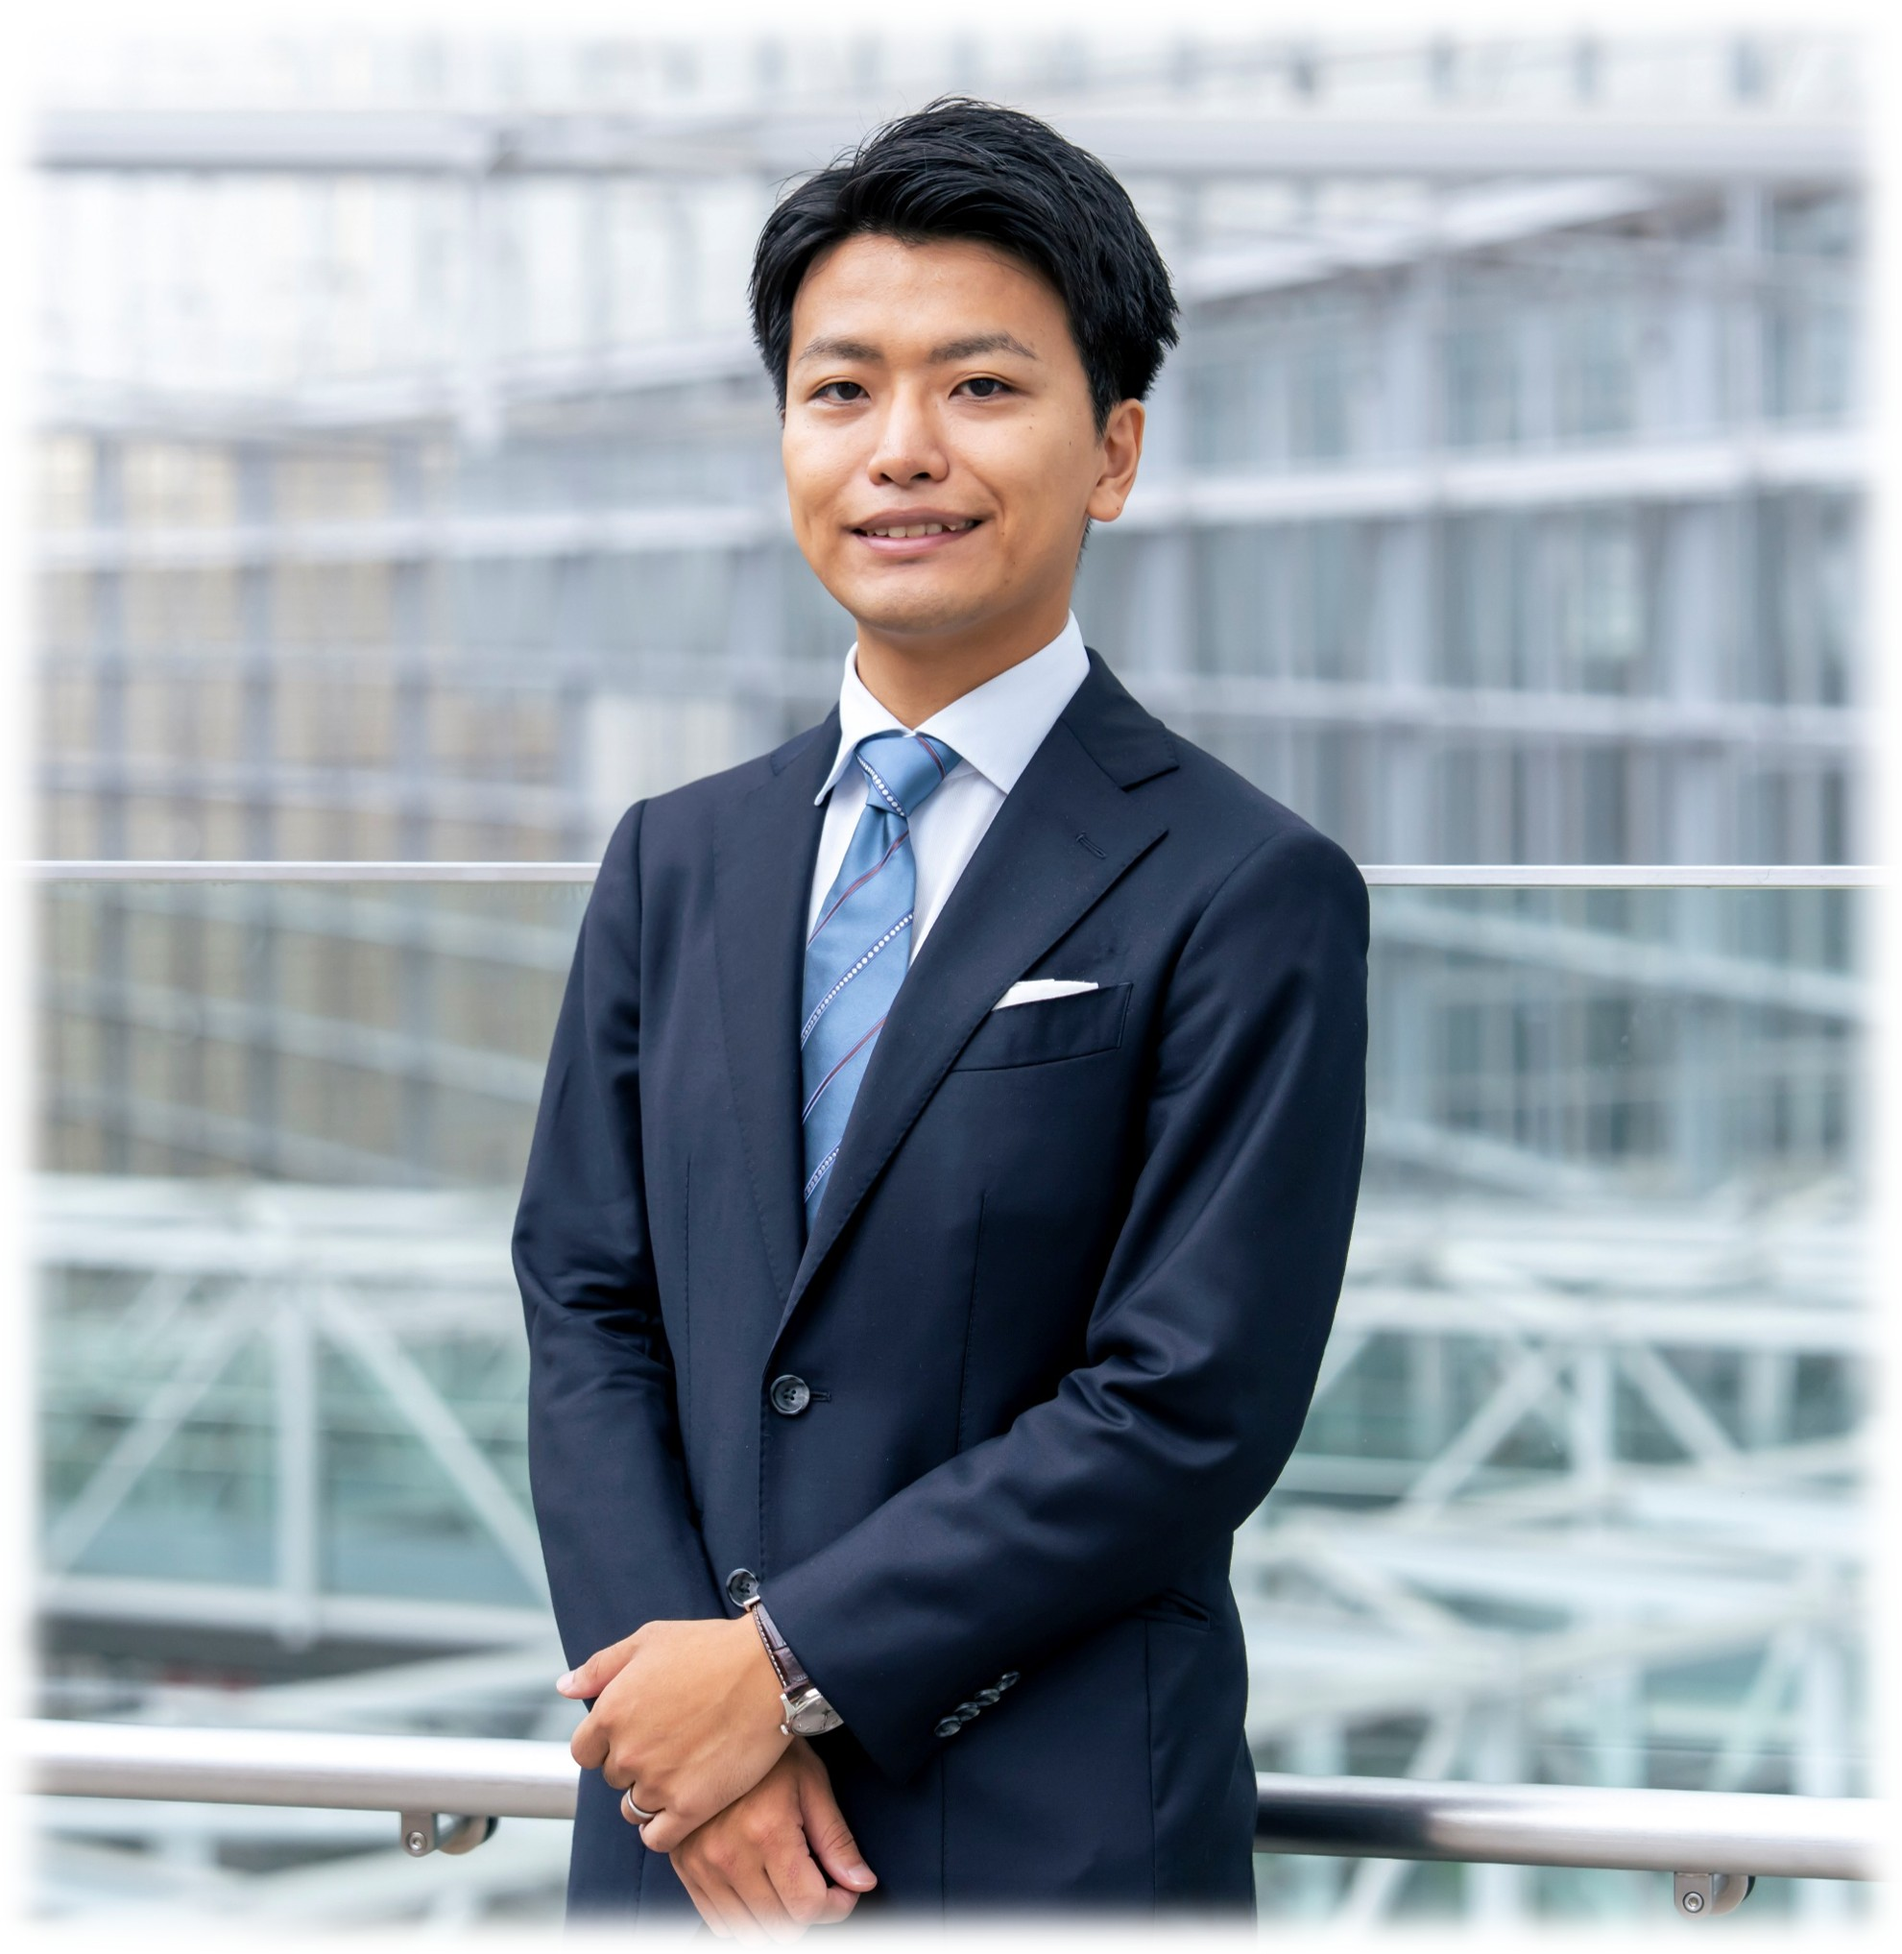
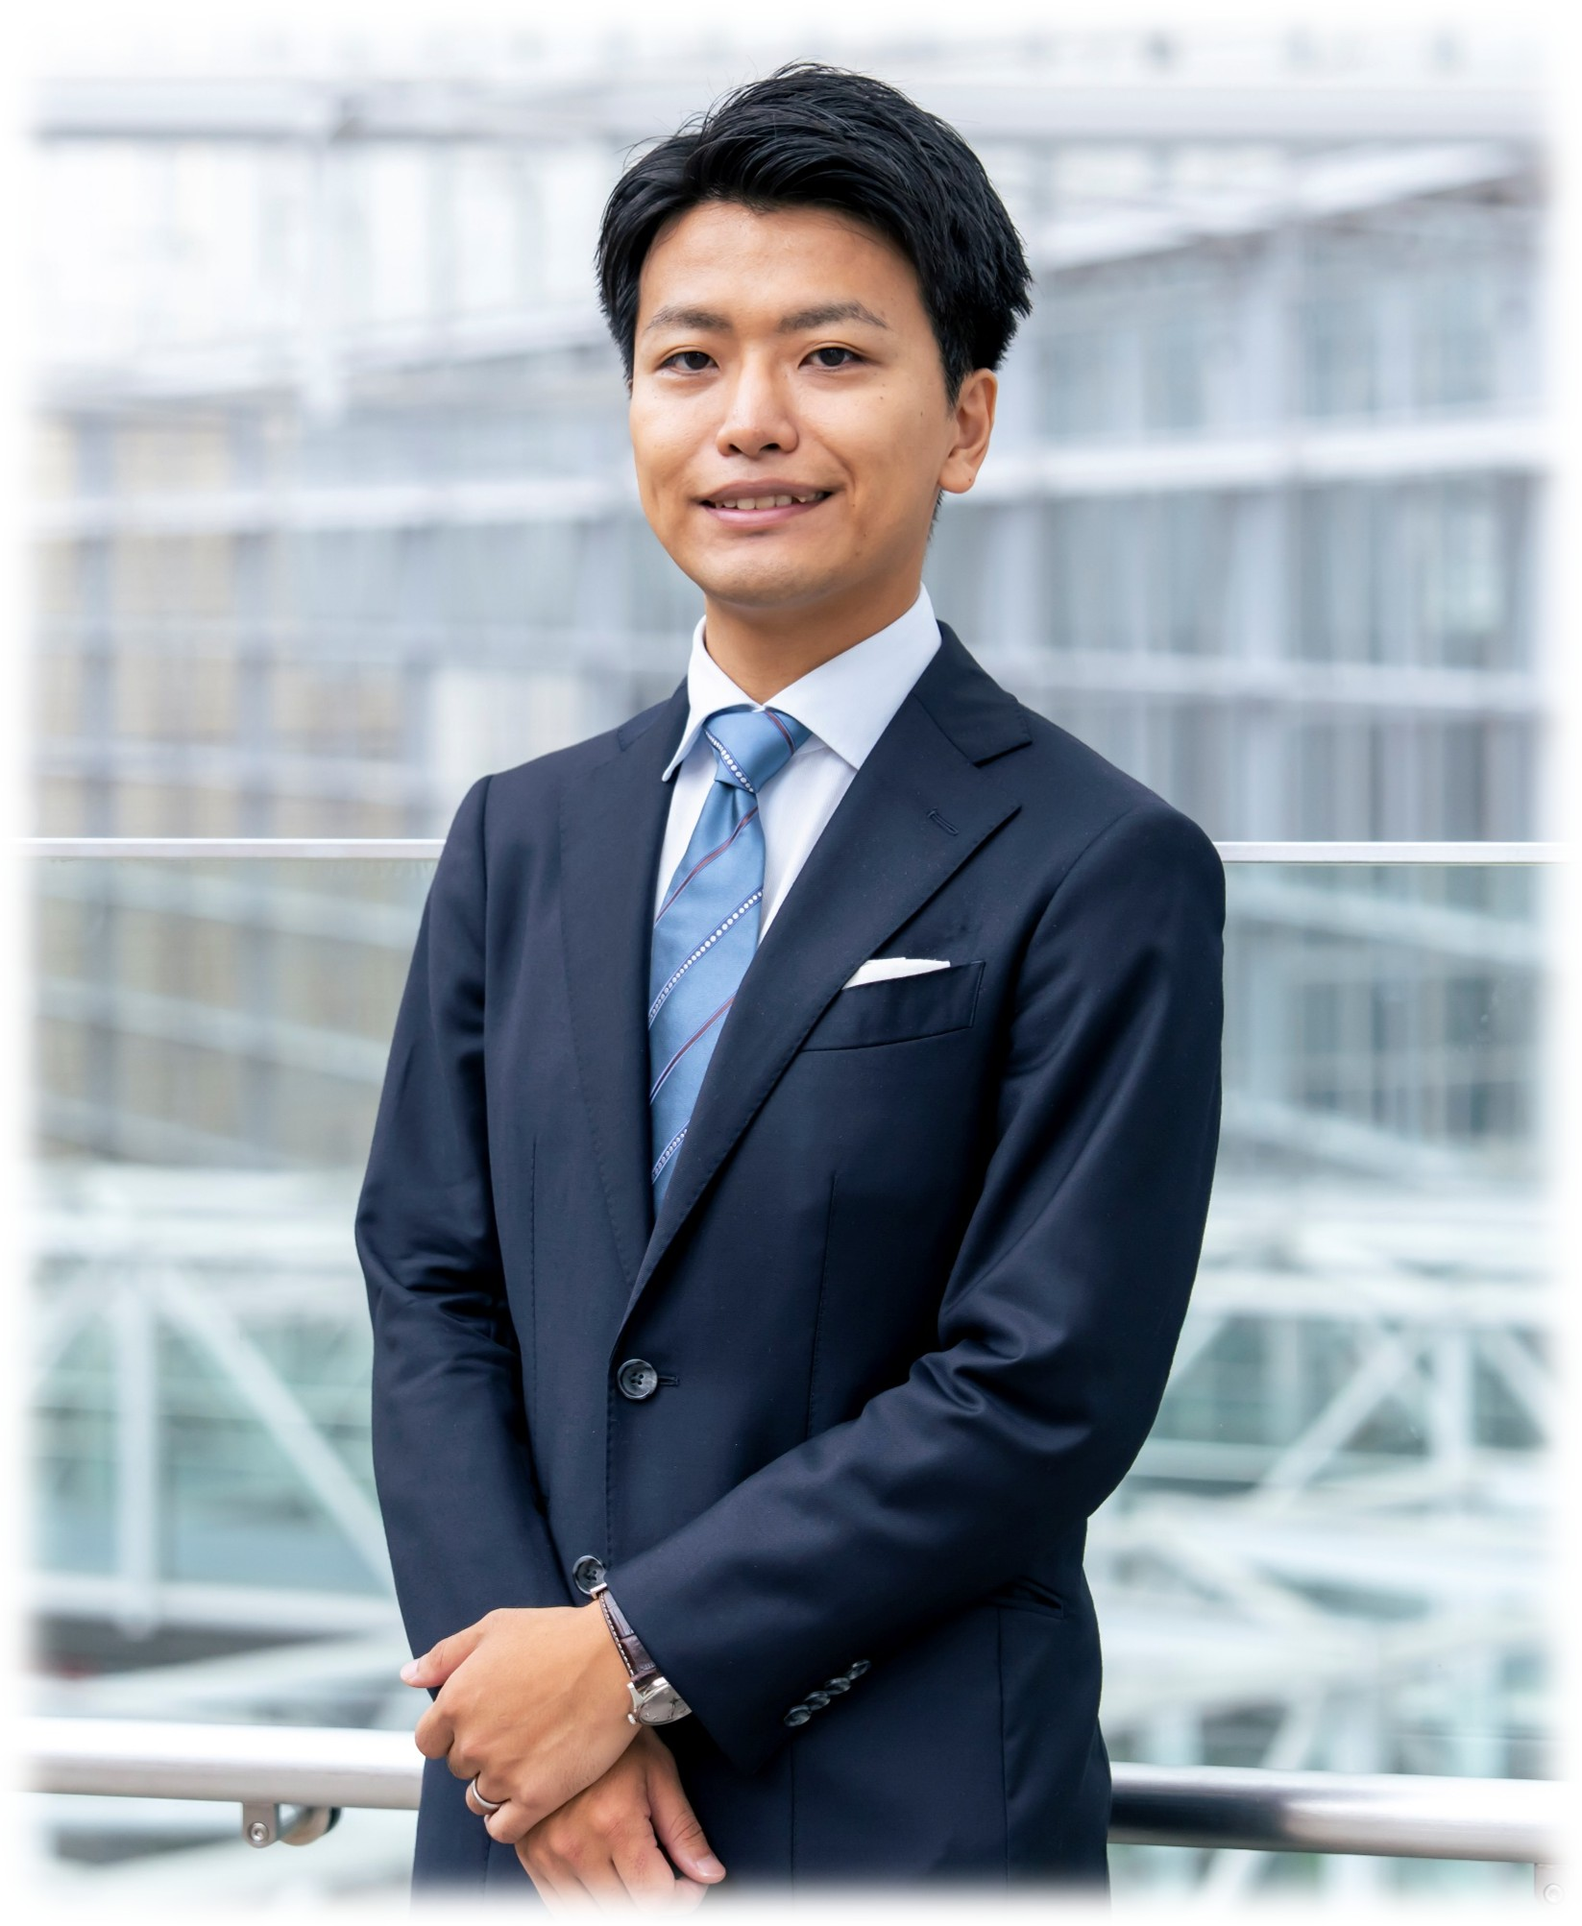
Update site

diff --git a/company.html b/company.html
@@ -95,30 +95,29 @@
 			<!-- Greeting -->
 				<section id="greeting" class="container reveal-on-scroll" style="padding: 3em 0;">
 					<h2 style="font-size: 1.6em; font-weight: 900; color: #0B2F6B; border-bottom: solid 3px #0B2F6B; padding-bottom: 0.5em; margin: 0 0 2em 0;">代表挨拶</h2>
-					<div style="display: flex; flex-wrap: wrap; gap: 3em; align-items: flex-start;">
-						<div style="flex: 0 1 340px; text-align: center;">
-							<img src="images/Picture2.jpg" alt="代表 吉川和明" style="width: 100%; max-width: 340px; display: block; margin: 0 auto;">
-							<p class="text-center" style="color: #333f4d; margin: 1em 0 0 0; font-size: 0.85em; text-align: center; line-height: 1.7;">
-								和魂かけはしパートナーズ合同会社<br>
-							代表社員　吉川　和明<a href="https://www.linkedin.com/in/kyoshikawa" target="_blank" rel="noopener noreferrer" style="display: inline-flex; align-items: center; justify-content: center; width: 32px; height: 32px; background: #0A66C2; color: #fff; border-radius: 50%; margin-left: 0.4em; vertical-align: middle;"><span class="icon brands fa-linkedin-in" style="font-size: 1.1em;"></span></a>
-							</p>
-						</div>
-						<div style="flex: 1 1 400px;">
-							<p style="color: #333f4d; line-height: 2; margin: 0 0 1.2em 0; font-size: 0.95em;">はじめまして。私は、神奈川県横浜市の出身で、町工場に勤める親のもとで育ちました。<br>大学卒業後は、経営コンサルティング会社にて約8年間、企業の新規事業立ち上げ、及び営業活動による新規顧客開拓、営業改革、M&amp;A支援などを戦略立案から実行まで一貫して担当してまいりました。その後、経営をより深く学ぶためIESE Business School(スペイン)のMBA課程に進学しました。</p>
-							<p style="color: #333f4d; line-height: 2; margin: 0 0 1.2em 0; font-size: 0.95em;">数多くのお客様の現場に入り、経営課題と向き合ってきました。私が大切にしてきたのは、戦略や計画を描くだけでなく、実際にお客様と机を並べ、新商品の販売現場に立ち、新しい業務が定着するまで一緒に汗をかきながら実務を積み重ねることでした。その中で強く感じたのは、経営とは数字の改善だけでなく、そこで働く人々や築き上げてきた文化を大切にしながら前に進めるものだということです。</p>
-							<p style="color: #333f4d; line-height: 2; margin: 0 0 1.2em 0; font-size: 0.95em;">親が勤務していた町工場が、まさに後継者を見つけることができず閉業した際に、日本の中小企業の多くが後継者不在という課題に直面しました。</p>
-							<p style="color: #333f4d; line-height: 2; margin: 0 0 1.2em 0; font-size: 0.95em;">私は、単なる投資家としてではなく、一人の経営者として会社を引き継ぎ、社員の雇用を守り、事業をさらに成長させてまいります。私たちは一社に集中し、長期的な視点で経営に責任を持ちます。<br>築き上げてこられた事業と想いを、次の世代に丁寧につないでいく。その役割を担わせていただく所存です。</p>
-							<p style="color: #333f4d; line-height: 2; margin: 0 0 1.2em 0; font-size: 0.95em;">サーチファンドは、それを実現できる仕組みです。<br>私自身、向き合っていく会社をよりよい状態で未来につないでいきます。<br>更には、サーチファンドの成功事例をつくることで、将来的な業界拡大、後継者不足の問題に一石を投じてまいります。</p>
+					<div style="text-align: left; margin: 0 0 2em 0;">
+						<img src="images/Picture3.jpg" alt="代表 吉川和明" style="width: 100%; max-width: 760px; display: block; margin: 0;">
+					</div>
+					<div>
+						<p style="color: #333f4d; line-height: 2; margin: 0 0 1.2em 0; font-size: 0.95em;">はじめまして。私は、神奈川県横浜市の出身で、町工場に勤める親のもとで育ちました。<br>大学卒業後は、経営コンサルティング会社にて約8年間、企業の新規事業立ち上げ、及び営業活動による新規顧客開拓、営業改革、M&amp;A支援などを戦略立案から実行まで一貫して担当してまいりました。その後、経営をより深く学ぶためIESE Business School(スペイン)のMBA課程に進学しました。</p>
+						<p style="color: #333f4d; line-height: 2; margin: 0 0 1.2em 0; font-size: 0.95em;">数多くのお客様の現場に入り、経営課題と向き合ってきました。私が大切にしてきたのは、戦略や計画を描くだけでなく、実際にお客様と机を並べ、新商品の販売現場に立ち、新しい業務が定着するまで一緒に汗をかきながら実務を積み重ねることでした。その中で強く感じたのは、経営とは数字の改善だけでなく、そこで働く人々や築き上げてきた文化を大切にしながら前に進めるものだということです。</p>
+						<p style="color: #333f4d; line-height: 2; margin: 0 0 1.2em 0; font-size: 0.95em;">親が勤務していた町工場が、まさに後継者を見つけることができず閉業した際に、日本の中小企業の多くが後継者不在という課題に直面しました。</p>
+						<p style="color: #333f4d; line-height: 2; margin: 0 0 1.2em 0; font-size: 0.95em;">私は、単なる投資家としてではなく、一人の経営者として会社を引き継ぎ、社員の雇用を守り、事業をさらに成長させてまいります。私たちは一社に集中し、長期的な視点で経営に責任を持ちます。<br>築き上げてこられた事業と想いを、次の世代に丁寧につないでいく。その役割を担わせていただく所存です。</p>
+						<p style="color: #333f4d; line-height: 2; margin: 0 0 1.2em 0; font-size: 0.95em;">サーチファンドは、それを実現できる仕組みです。<br>私自身、向き合っていく会社をよりよい状態で未来につないでいきます。<br>更には、サーチファンドの成功事例をつくることで、将来的な業界拡大、後継者不足の問題に一石を投じてまいります。</p>
 
-							<div style="background: #e3eefb; padding: 1.5em 2em; margin: 0 0 1.5em 0;">
-								<p style="margin: 0 0 0.8em 0; font-weight: 700; color: #0B2F6B;">略歴</p>
-								<ul style="list-style: none; margin: 0; padding: 0; color: #333f4d; font-size: 0.9em; line-height: 1.9;">
-									<li style="display: flex; margin-bottom: 0.4em;"><span style="width: 105px; flex-shrink: 0;">2016-2024</span><span>経営コンサルティング会社 勤務（戦略立案、新商品/サービス開発、営業・新規顧客開拓、海外進出、営業業務改善・デジタル化、等）</span></li>
-									<li style="display: flex; margin-bottom: 0.4em;"><span style="width: 105px; flex-shrink: 0;"></span><span>継続して、商工会議所と連携し、中小企業における経営支援参画（若手社員育成、など）</span></li>
-									<li style="display: flex; margin-bottom: 0.4em;"><span style="width: 105px; flex-shrink: 0;">2024-2026</span><span>スペイン・IESE Business Schoolにて経営学修士（MBA）取得</span></li>
-									<li style="display: flex;"><span style="width: 105px; flex-shrink: 0;">2026-</span><span>和魂かけはしパートナーズ 創業</span></li>
-								</ul>
-							</div>
+						<p style="color: #333f4d; margin: 0 0 1.5em 0; font-size: 0.85em; text-align: left; line-height: 1.7;">
+							和魂かけはしパートナーズ合同会社<br>
+						代表社員　吉川　和明<a href="https://www.linkedin.com/in/kyoshikawa" target="_blank" rel="noopener noreferrer" style="display: inline-flex; align-items: center; justify-content: center; width: 32px; height: 32px; background: #0A66C2; color: #fff; border-radius: 50%; margin-left: 0.4em; vertical-align: middle;"><span class="icon brands fa-linkedin-in" style="font-size: 1.1em;"></span></a>
+						</p>
+
+						<div style="background: #e3eefb; padding: 1.5em 2em; margin: 0;">
+							<p style="margin: 0 0 0.8em 0; font-weight: 700; color: #0B2F6B;">略歴</p>
+							<ul style="list-style: none; margin: 0; padding: 0; color: #333f4d; font-size: 0.9em; line-height: 1.9;">
+								<li style="display: flex; margin-bottom: 0.4em;"><span style="width: 105px; flex-shrink: 0;">2016-2024</span><span>経営コンサルティング会社 勤務（戦略立案、新商品/サービス開発、営業・新規顧客開拓、海外進出、営業業務改善・デジタル化、等）</span></li>
+								<li style="display: flex; margin-bottom: 0.4em;"><span style="width: 105px; flex-shrink: 0;"></span><span>継続して、商工会議所と連携し、中小企業における経営支援参画（若手社員育成、など）</span></li>
+								<li style="display: flex; margin-bottom: 0.4em;"><span style="width: 105px; flex-shrink: 0;">2024-2026</span><span>スペイン・IESE Business Schoolにて経営学修士（MBA）取得</span></li>
+								<li style="display: flex;"><span style="width: 105px; flex-shrink: 0;">2026-</span><span>和魂かけはしパートナーズ 創業</span></li>
+							</ul>
 						</div>
 					</div>
 				</section>
